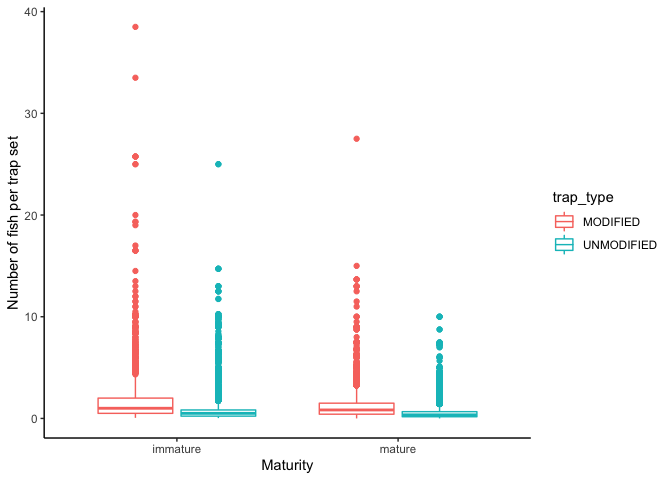
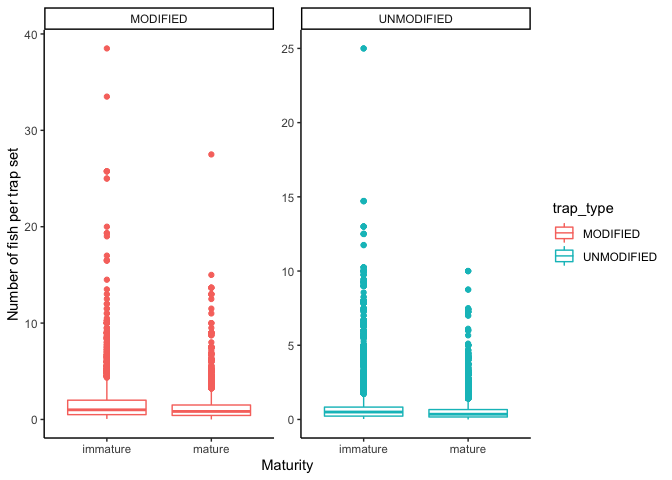
redoing modified and unmodified trap figure by maturity

diff --git a/FishLandings/scripts/CUE-maturity-length-analysis.md b/FishLandings/scripts/CUE-maturity-length-analysis.md
@@ -712,7 +712,7 @@ maturity %>% select(number_of_fish, trap_type, maturity, scientific_name, total_
   na.omit() %>%  
   ggplot(., aes(x=maturity, y=nofish_pertrap, color=trap_type)) +
   geom_boxplot() + theme_classic() + 
-  #facet_wrap(~trap_type, scales = "free_y") +
+  facet_wrap(~trap_type, scales = "free_y") +
   #theme(axis.text.x = element_text(angle=60, hjust=1)) +
   xlab("Maturity") +
   ylab("Number of fish per trap set")
